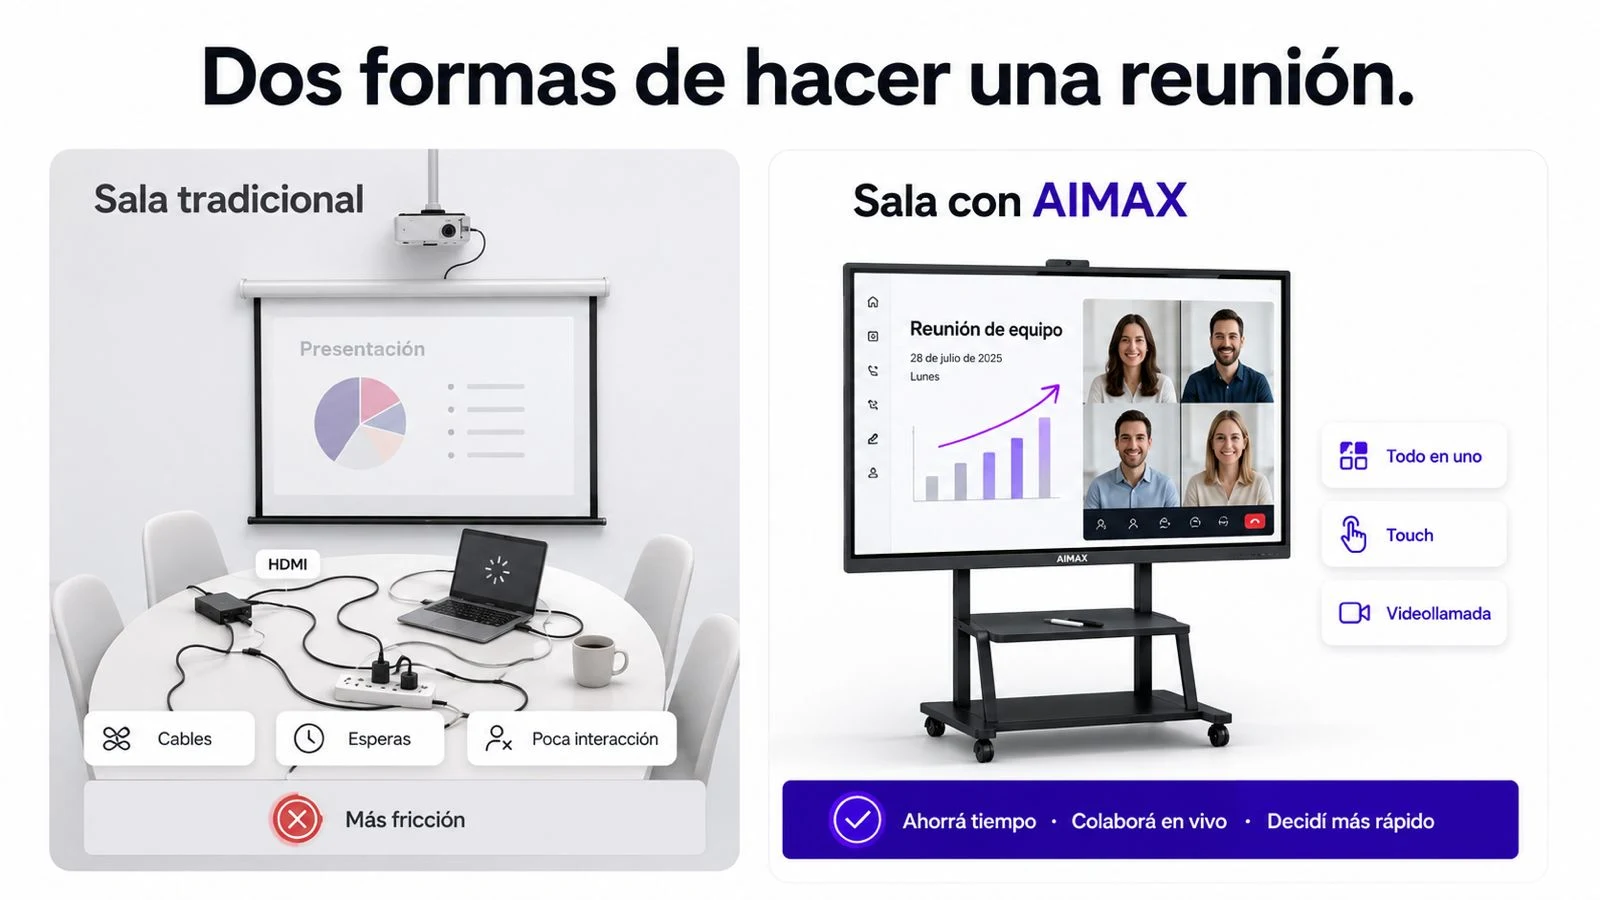
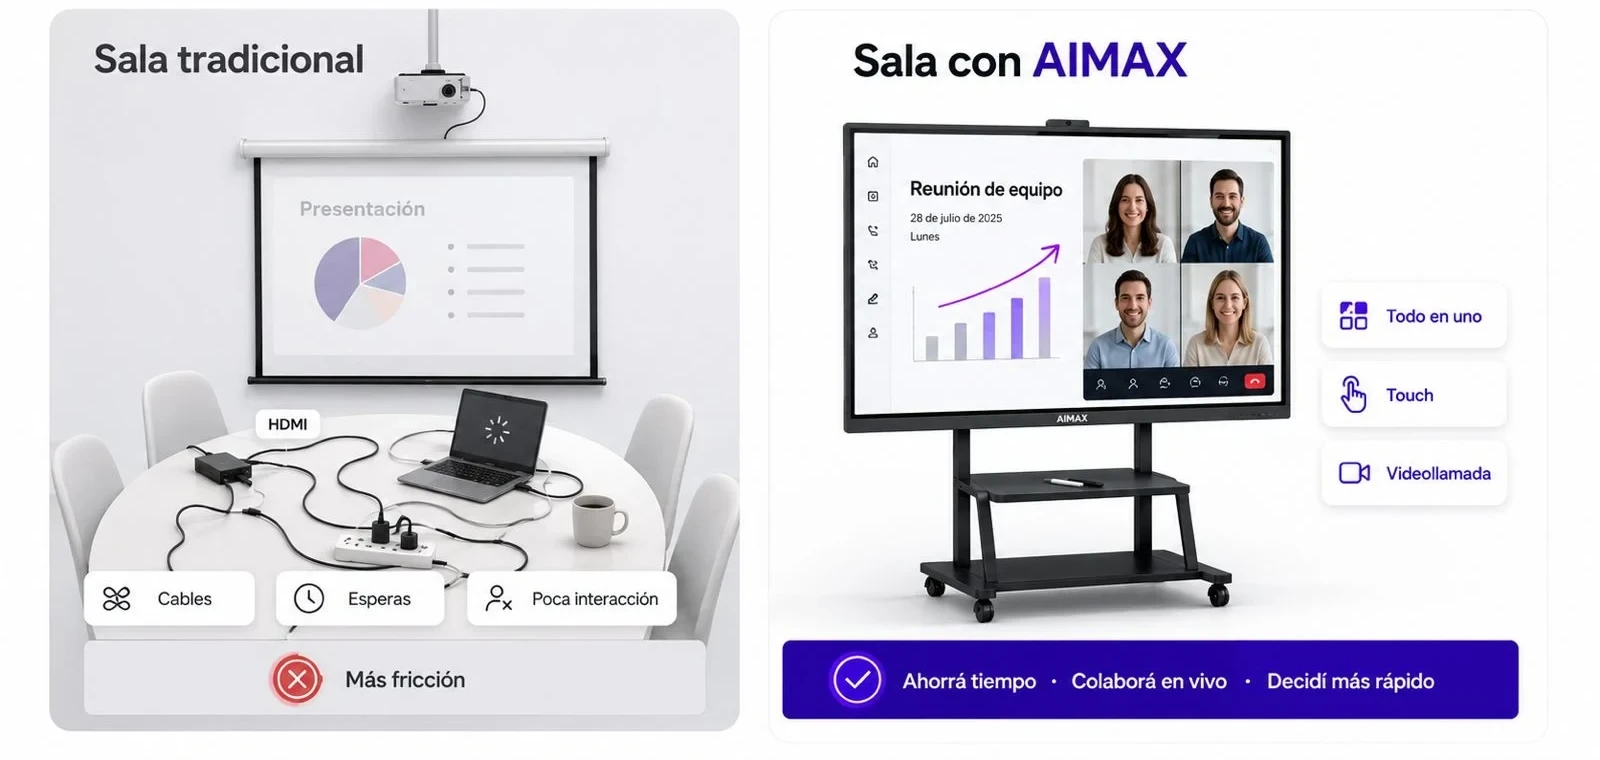
Sacar el título duplicado de la imagen "Antes y después"
fila-android-windows.webp traía su propio título "Dos formas de hacer una
reunión." pegado arriba, repitiendo el <h3> de la fila. Se recorta la
franja del título y, como la imagen queda más ancha que 16:9, se saca el
aspect-ratio/object-fit fijo de .row-media img: cada fila ahora entra con
su proporción real (w/h por fila) en vez de forzar 16:9 a las tres.

Changed region(s): [[0.0312, 0.0, 0.9688, 0.9684], [0.8438, 0.6658, 0.9375, 0.6961]]

diff --git a/public/index.html b/public/index.html
@@ -264,9 +264,10 @@ h2.una-linea { max-width: none; white-space: nowrap; }
   border: 1px solid var(--line);
   box-shadow: 0 30px 60px -40px rgba(0, 0, 0, 0.4);
 }
-/* height:auto es necesario: si no, el atributo HTML height="427" le gana
-   al aspect-ratio y la imagen queda recortada mucho más angosta que 16:9. */
-.row-media img { width: 100%; height: auto; aspect-ratio: 16 / 9; object-fit: cover; }
+/* Sin aspect-ratio ni object-fit: cada imagen entra entera, con su propia
+   proporción. height:auto es necesario porque si no el atributo HTML
+   height="..." queda fijo y no escala con el ancho. */
+.row-media img { width: 100%; height: auto; display: block; }
 .row h3 { font-size: clamp(25px, 2.4vw, 33px); font-weight: 800; }
 .row p { margin-top: 16px; font-size: 18px; color: var(--ink-2); line-height: 1.56; }
 .row-tag {
@@ -483,14 +484,14 @@ h2.una-linea { max-width: none; white-space: nowrap; }
 <div class="row-tag"><svg width="16" height="16" viewBox="0 0 24 24" fill="none" stroke="currentColor" stroke-width="1.8" stroke-linecap="round" stroke-linejoin="round" aria-hidden="true"><path d="M20 6 9 17l-5-5"/></svg>Anotación en vivo</div>
 <h3>Anotá encima<br>de lo que estés mostrando.</h3><p>Un gráfico, una planilla, cualquier cosa que tengas abierta. Escribís arriba sin salir de la aplicación y todo queda guardado en el mismo archivo. La reunión termina y el material ya está listo para enviar.</p>
 </div>
-<div class="row-media"><img src="https://czocbnyoenjbpxmcqobn.supabase.co/storage/v1/object/public/algoritmia-img/aimax/fila-anotacion.webp" width="760" height="427" loading="lazy" decoding="async" alt="Pantalla AIMAX con una anotación a mano sobre un gráfico de barras"></div>
+<div class="row-media"><img src="https://czocbnyoenjbpxmcqobn.supabase.co/storage/v1/object/public/algoritmia-img/aimax/fila-anotacion.webp" width="2752" height="1536" loading="lazy" decoding="async" alt="Pantalla AIMAX con una anotación a mano sobre un gráfico de barras"></div>
 </div>
 <div class="row">
 <div class="row-copy">
 <div class="row-tag"><svg width="16" height="16" viewBox="0 0 24 24" fill="none" stroke="currentColor" stroke-width="1.8" stroke-linecap="round" stroke-linejoin="round" aria-hidden="true"><path d="M20 6 9 17l-5-5"/></svg>Antes y después</div>
 <h3>Dos formas de<br>hacer una reunión.</h3><p>Cables enredados, un proyector que tarda en prender y todos mirando una pantalla chica. Con AIMAX es una sola pantalla lista para la videollamada, la presentación y el gráfico al mismo tiempo. Reuniones que arrancan y terminan más rápido.</p>
 </div>
-<div class="row-media"><img src="https://czocbnyoenjbpxmcqobn.supabase.co/storage/v1/object/public/algoritmia-img/aimax/fila-android-windows.webp" width="760" height="427" loading="lazy" decoding="async" alt="Comparación entre una sala tradicional, con proyector y cables, y una sala con AIMAX"></div>
+<div class="row-media"><img src="https://czocbnyoenjbpxmcqobn.supabase.co/storage/v1/object/public/algoritmia-img/aimax/fila-android-windows.webp" width="1600" height="760" loading="lazy" decoding="async" alt="Comparación entre una sala tradicional, con proyector y cables, y una sala con AIMAX"></div>
 </div>
 </div></div></section>
 <section class="section tinted"><div class="wrap">

diff --git a/src/build_landing.py b/src/build_landing.py
@@ -376,9 +376,10 @@ h2.una-linea { max-width: none; white-space: nowrap; }
   border: 1px solid var(--line);
   box-shadow: 0 30px 60px -40px rgba(0, 0, 0, 0.4);
 }
-/* height:auto es necesario: si no, el atributo HTML height="427" le gana
-   al aspect-ratio y la imagen queda recortada mucho más angosta que 16:9. */
-.row-media img { width: 100%; height: auto; aspect-ratio: 16 / 9; object-fit: cover; }
+/* Sin aspect-ratio ni object-fit: cada imagen entra entera, con su propia
+   proporción. height:auto es necesario porque si no el atributo HTML
+   height="..." queda fijo y no escala con el ancho. */
+.row-media img { width: 100%; height: auto; display: block; }
 .row h3 { font-size: clamp(25px, 2.4vw, 33px); font-weight: 800; }
 .row p { margin-top: 16px; font-size: 18px; color: var(--ink-2); line-height: 1.56; }
 .row-tag {
@@ -643,7 +644,7 @@ FILAS = [
         texto="Resolvés una fórmula con el marcador y la pantalla la reconoce, la "
               "digitaliza y la deja lista para compartir. Sin escanear, sin pasarla "
               "en limpio después, sin que se pierda al borrar.",
-        img="demo-escritura.jpg",
+        img="demo-escritura.jpg", w=760, h=427,
         alt="Docente resolviendo una derivada a mano sobre una pantalla AIMAX",
         flip=False,
     ),
@@ -653,7 +654,7 @@ FILAS = [
         texto="Un gráfico, una planilla, cualquier cosa que tengas abierta. Escribís "
               "arriba sin salir de la aplicación y todo queda guardado en el mismo "
               "archivo. La reunión termina y el material ya está listo para enviar.",
-        img="fila-anotacion.webp",
+        img="fila-anotacion.webp", w=2752, h=1536,
         alt="Pantalla AIMAX con una anotación a mano sobre un gráfico de barras",
         flip=True,
     ),
@@ -664,7 +665,7 @@ FILAS = [
               "pantalla chica. Con AIMAX es una sola pantalla lista para la videollamada, "
               "la presentación y el gráfico al mismo tiempo. Reuniones que arrancan y "
               "terminan más rápido.",
-        img="fila-android-windows.webp",
+        img="fila-android-windows.webp", w=1600, h=760,
         alt="Comparación entre una sala tradicional, con proyector y cables, y una sala con AIMAX",
         flip=False,
     ),
@@ -760,7 +761,8 @@ def build_body():
           % (tagico('<path d="M20 6 9 17l-5-5"/>'), f['tag']))
         a('<h3>%s</h3><p>%s</p>' % (f['titulo'], f['texto']))
         a('</div>')
-        a('<div class="row-media"><img src="@@IMG:%s@@" width="760" height="427" loading="lazy" decoding="async" alt="%s"></div>' % (f['img'], f['alt']))
+        a('<div class="row-media"><img src="@@IMG:%s@@" width="%d" height="%d" loading="lazy" decoding="async" alt="%s"></div>'
+          % (f['img'], f['w'], f['h'], f['alt']))
         a('</div>')
     a('</div></div></section>')
 

diff --git a/README.md b/README.md
@@ -124,19 +124,25 @@ y Proglobal, confirmados por Alejo el 2026-09-03.
 ## Galería "Tres formas de usarla todos los días" y filas de funciones
 
 Las 3 imágenes de la galería (`caso-educacion.webp`, `caso-empresas.webp`,
-`caso-arquitectura.webp`) y 2 de las 3 filas de "Qué hace la pantalla"
-(`fila-anotacion.webp`, `fila-android-windows.webp`) son gráficos generados
-con IA (nano-banana pro, con `instalacion.webp` como referencia de producto
-para mantener el diseño real del equipo), no fotos de instalaciones ni de
-clientes puntuales. La primera fila (`demo-escritura.jpg`) sigue siendo una
-captura real del producto.
+`caso-arquitectura.webp`) y `fila-anotacion.webp` (fila "Anotación en
+vivo") son gráficos generados con IA (nano-banana pro, con
+`instalacion.webp` como referencia de producto para mantener el diseño
+real del equipo), no fotos de instalaciones ni de clientes puntuales.
+`fila-android-windows.webp` (fila "Antes y después") es en cambio la
+imagen real que mandó Alejo ("Dos formas de hacer una reunión."), recortada
+para sacarle el título que traía arriba porque duplicaba el `<h3>` de la
+fila. La primera fila (`demo-escritura.jpg`) sigue siendo una captura real
+del producto.
 
 Hasta el 2026-09-03 la galería mostraba 3 fotos reales atribuidas a FAPyD,
 Black Swan Inversiones y Municipalidad de Rosario — Alejo avisó que esas
 fotos no correspondían a esos casos de uso, así que se sacó la atribución.
 Alejo pidió después reemplazarlas por gráficos de producto con los
-beneficios integrados (mandó 3 referencias) y usar el mismo estilo en las
-filas de "Anotación en vivo" y "Android + Windows".
+beneficios integrados (mandó 3 referencias) y usar el mismo estilo en la
+fila de "Anotación en vivo"; para la fila "Android + Windows" mandó
+directamente la imagen final, que ahora se llama "Antes y después" (tag y
+texto reescritos para que hablen de la comparación de salas, no de
+Android/Windows — ese copy quedó desactualizado un par de commits).
 
 Los 7 textos de la galería (`Todo en uno`, `Interacción real`, `Colaboración
 sin límites`, `Conectividad total`, `Mejora la atención`, `Ahorro de tiempo
@@ -150,7 +156,12 @@ en vez de calcularlo desde el ancho, así que el recorte real terminaba siendo
 ~1.18:1 en vez de 16:9 y se comía el 30%+ del ancho de la imagen por cada
 lado. Afectaba a las 3 filas desde siempre, no solo a las nuevas — se notó
 recién con los gráficos de IA porque tienen texto pegado a mitad de la
-imagen. Se arregla agregando `height: auto;` explícito en la regla CSS.
+imagen. Primero se arregló agregando `height: auto;` explícito. Después,
+al recortarle el título a `fila-android-windows.webp`, esa imagen quedó
+mucho más ancha que 16:9 (2.1:1) — forzarla a 16:9 le recortaba los costados
+a las dos cards. Se sacó `aspect-ratio`/`object-fit` de `.row-media img` del
+todo: ahora cada fila entra con su proporción real (`w`/`h` por fila en
+`FILAS`, ya no `width="760" height="427"` fijo para las tres).
 
 Misma trampa, otra víctima: `.install-media img` no tenía NINGUNA regla
 propia (solo el `max-width:100%` global), así que al cambiar
